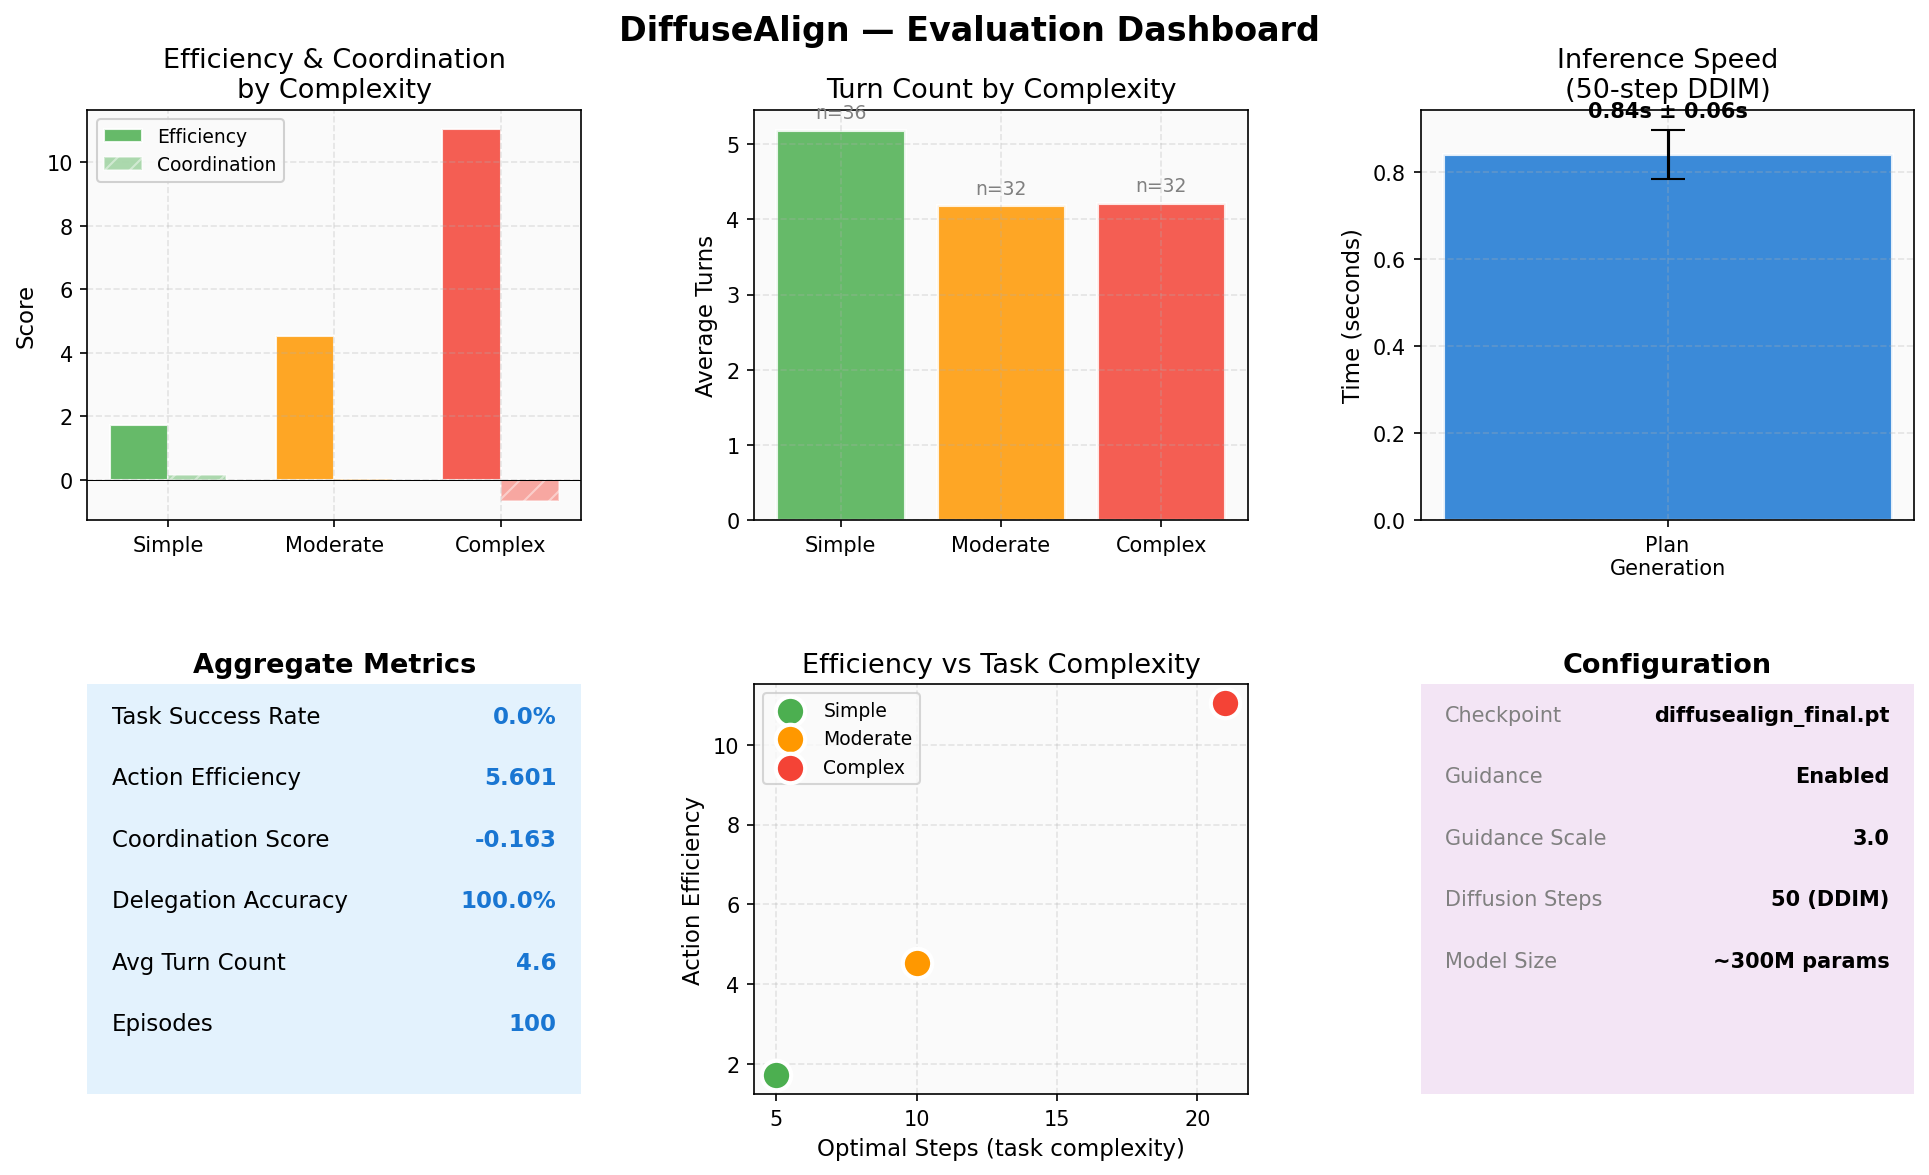
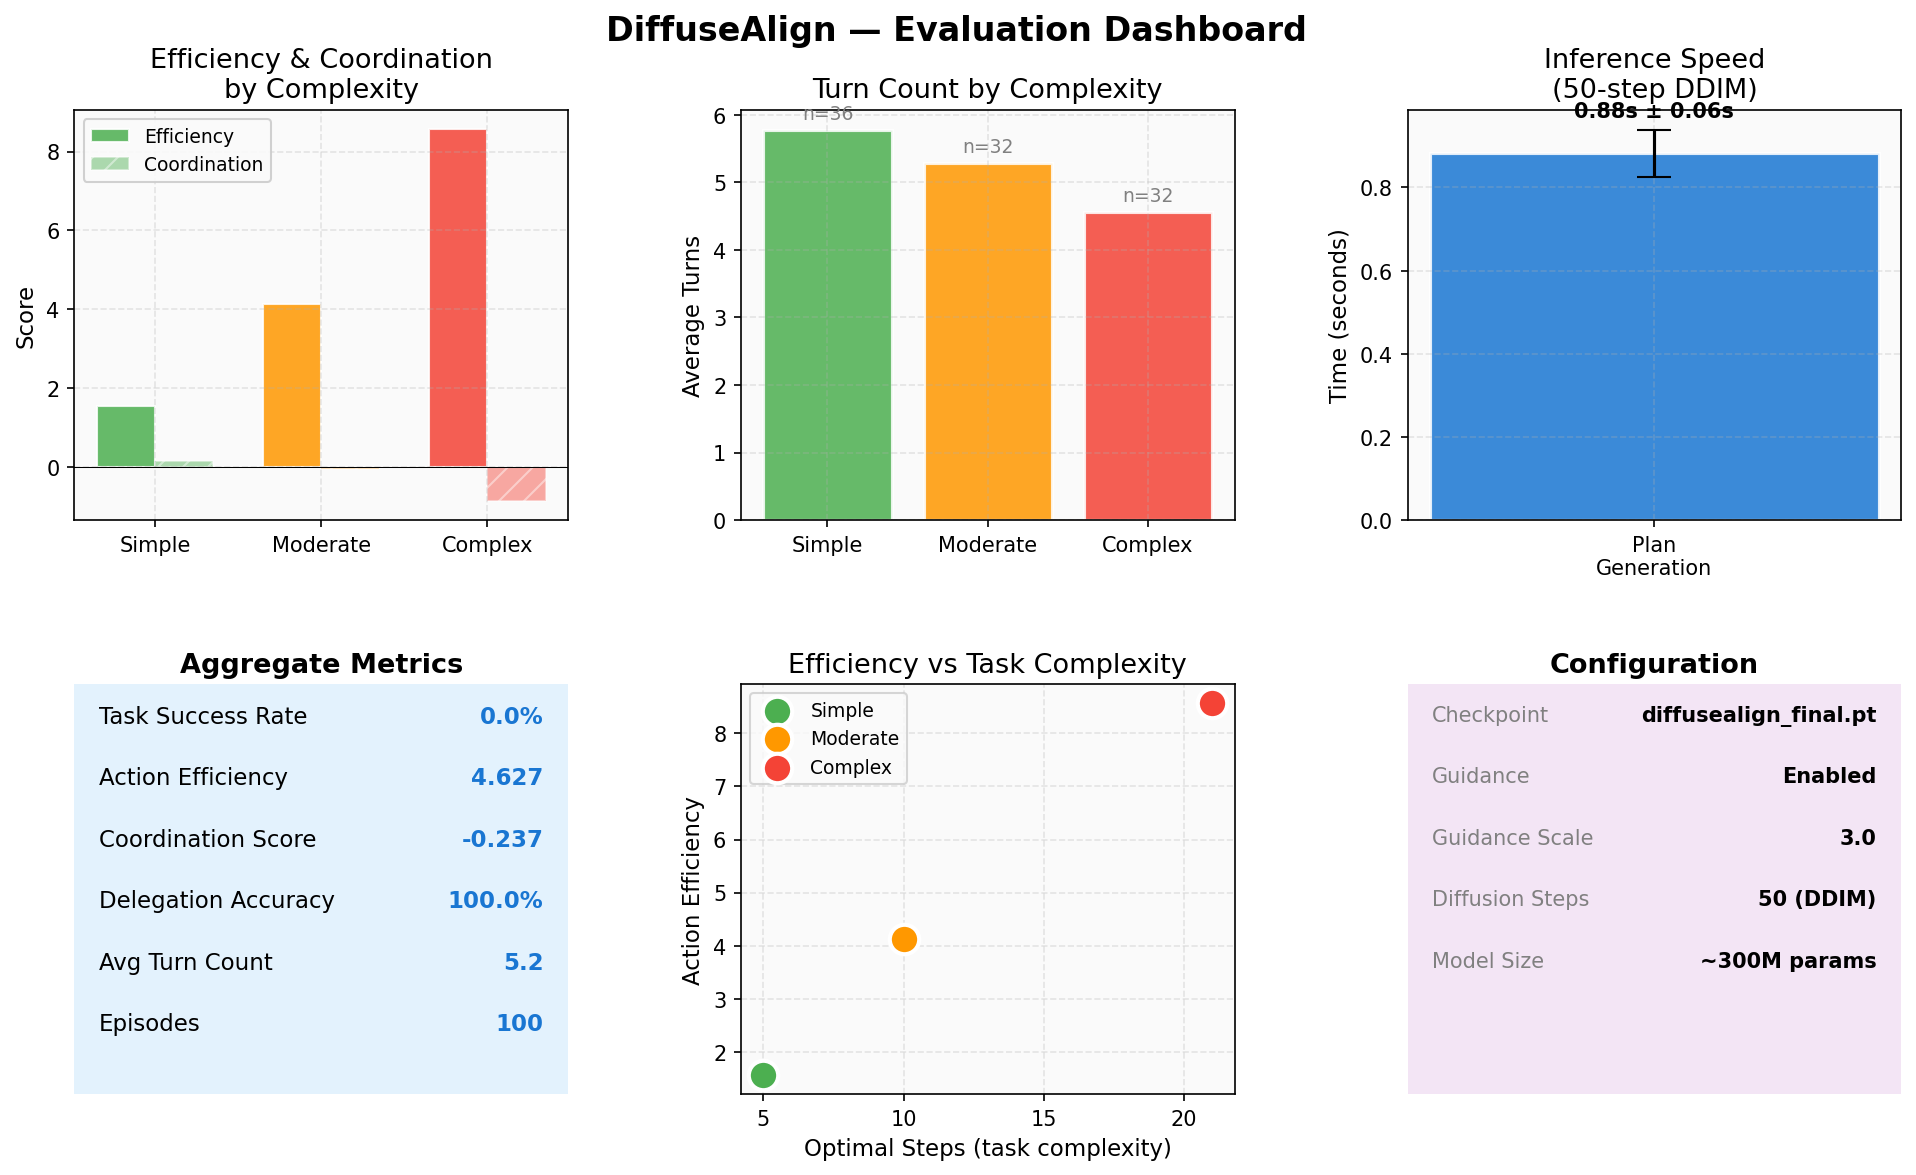
fix: decoder v3 — train on diffusion plan representations
- Fix critical representation mismatch: decoder now trained on actual
  diffusion model output instead of random nn.Embedding vectors
- Average best checkpoints from 2 GPU seeds (NLL 0.1887 / 0.1907)
- Reassemble final model with v3 decoder weights
- Re-evaluate: coherent NL dialogue output confirmed
- Update visualization figures with v3 results

diff --git a/scripts/assemble_v3.py b/scripts/assemble_v3.py
@@ -1,0 +1,145 @@
+#!/usr/bin/env python
+"""
+Post-training: Average Stage 2 v3 checkpoints and reassemble final model.
+
+v3 uses decoder trained on actual diffusion plan representations,
+fixing the representation mismatch from v1/v2.
+
+Usage:
+    python scripts/assemble_v3.py
+"""
+
+from __future__ import annotations
+
+import sys
+import shutil
+from pathlib import Path
+from collections import OrderedDict
+
+import torch
+
+sys.path.insert(0, str(Path(__file__).parent.parent))
+
+
+def average_checkpoints(paths: list[str]) -> OrderedDict:
+    """Average model state dicts from multiple checkpoints."""
+    states = []
+    for p in paths:
+        ckpt = torch.load(p, map_location="cpu", weights_only=False)
+        if isinstance(ckpt, dict) and "model_state" in ckpt:
+            states.append(ckpt["model_state"])
+        elif isinstance(ckpt, OrderedDict):
+            states.append(ckpt)
+        else:
+            states.append(ckpt)
+        print(f"  Loaded: {p} ({len(states[-1])} keys)")
+
+    avg_state = OrderedDict()
+    for key in states[0]:
+        tensors = [s[key].float() for s in states]
+        avg_state[key] = sum(tensors) / len(tensors)
+
+    return avg_state
+
+
+def main():
+    ckpt_dir = Path("experiments/checkpoints")
+
+    # Stage 2 v3 directories
+    gpu4_dir = ckpt_dir / "stage2v3_gpu4"
+    gpu5_dir = ckpt_dir / "stage2v3_gpu5"
+
+    # Use the best checkpoint from each GPU
+    gpu4_best = gpu4_dir / "stage2v3_best.pt"
+    gpu5_best = gpu5_dir / "stage2v3_best.pt"
+
+    if not gpu4_best.exists():
+        print(f"ERROR: No best checkpoint in {gpu4_dir}")
+        sys.exit(1)
+    if not gpu5_best.exists():
+        print(f"ERROR: No best checkpoint in {gpu5_dir}")
+        sys.exit(1)
+
+    print("=" * 60)
+    print("Stage 2 v3: Averaging best checkpoints")
+    print("=" * 60)
+
+    avg_state = average_checkpoints([str(gpu4_best), str(gpu5_best)])
+
+    # Save averaged Stage 2 v3
+    avg_path = ckpt_dir / "stage2_v3_averaged.pt"
+    torch.save(avg_state, avg_path)
+    print(f"\nSaved averaged Stage 2 v3: {avg_path}")
+    print(f"  Size: {avg_path.stat().st_size / 1e9:.2f} GB")
+
+    # Reassemble the full model
+    print("\n" + "=" * 60)
+    print("Reassembling final model with v3 decoder")
+    print("=" * 60)
+
+    # Load existing final model as base (has stage1 + stage3)
+    old_final = ckpt_dir / "diffusealign_final.pt"
+    if old_final.exists():
+        print(f"Loading base model: {old_final}")
+        final_state = torch.load(old_final, map_location="cpu", weights_only=False)
+    else:
+        # Build from individual stages
+        print("Building from individual stages...")
+        final_state = OrderedDict()
+
+        s1 = torch.load(ckpt_dir / "stage1_averaged.pt", map_location="cpu", weights_only=False)
+        if isinstance(s1, dict) and "model_state" in s1:
+            s1 = s1["model_state"]
+        final_state.update(s1)
+
+        s3 = torch.load(ckpt_dir / "stage3_averaged.pt", map_location="cpu", weights_only=False)
+        if isinstance(s3, dict) and "model_state" in s3:
+            s3 = s3["model_state"]
+        final_state.update(s3)
+
+    # Replace decoder weights with v3 averaged weights
+    decoder_keys = [k for k in avg_state if "plan_decoder" in k]
+    non_decoder_keys = [k for k in avg_state if "plan_decoder" not in k]
+
+    print(f"  Averaged state: {len(avg_state)} total keys")
+    print(f"    Decoder keys: {len(decoder_keys)}")
+    print(f"    Non-decoder keys: {len(non_decoder_keys)}")
+
+    # Remove old decoder keys
+    old_decoder_keys = [k for k in final_state if "plan_decoder" in k]
+    for k in old_decoder_keys:
+        del final_state[k]
+    print(f"  Removed {len(old_decoder_keys)} old decoder keys")
+
+    # Add new v3 decoder keys
+    for k in decoder_keys:
+        final_state[k] = avg_state[k]
+    print(f"  Added {len(decoder_keys)} new v3 decoder keys")
+
+    # Also update any non-decoder keys (VQ codebook etc)
+    for k in non_decoder_keys:
+        final_state[k] = avg_state[k]
+    if non_decoder_keys:
+        print(f"  Updated {len(non_decoder_keys)} non-decoder keys")
+
+    # Save
+    new_final = ckpt_dir / "diffusealign_final_v3.pt"
+    torch.save(final_state, new_final)
+    print(f"\n✅ New final model (v3): {new_final}")
+    print(f"   Size: {new_final.stat().st_size / 1e9:.2f} GB")
+    print(f"   Total keys: {len(final_state)}")
+
+    # Backup current and replace
+    backup_path = ckpt_dir / "diffusealign_final_v2_backup.pt"
+    if old_final.exists() and not backup_path.exists():
+        shutil.copy2(old_final, backup_path)
+        print(f"   Backed up v2 model to: {backup_path}")
+
+    shutil.copy2(new_final, old_final)
+    print(f"   Copied v3 to: {old_final}")
+
+    print("\n🎉 Model assembly complete! Ready for evaluation.")
+
+
+if __name__ == "__main__":
+    main()
